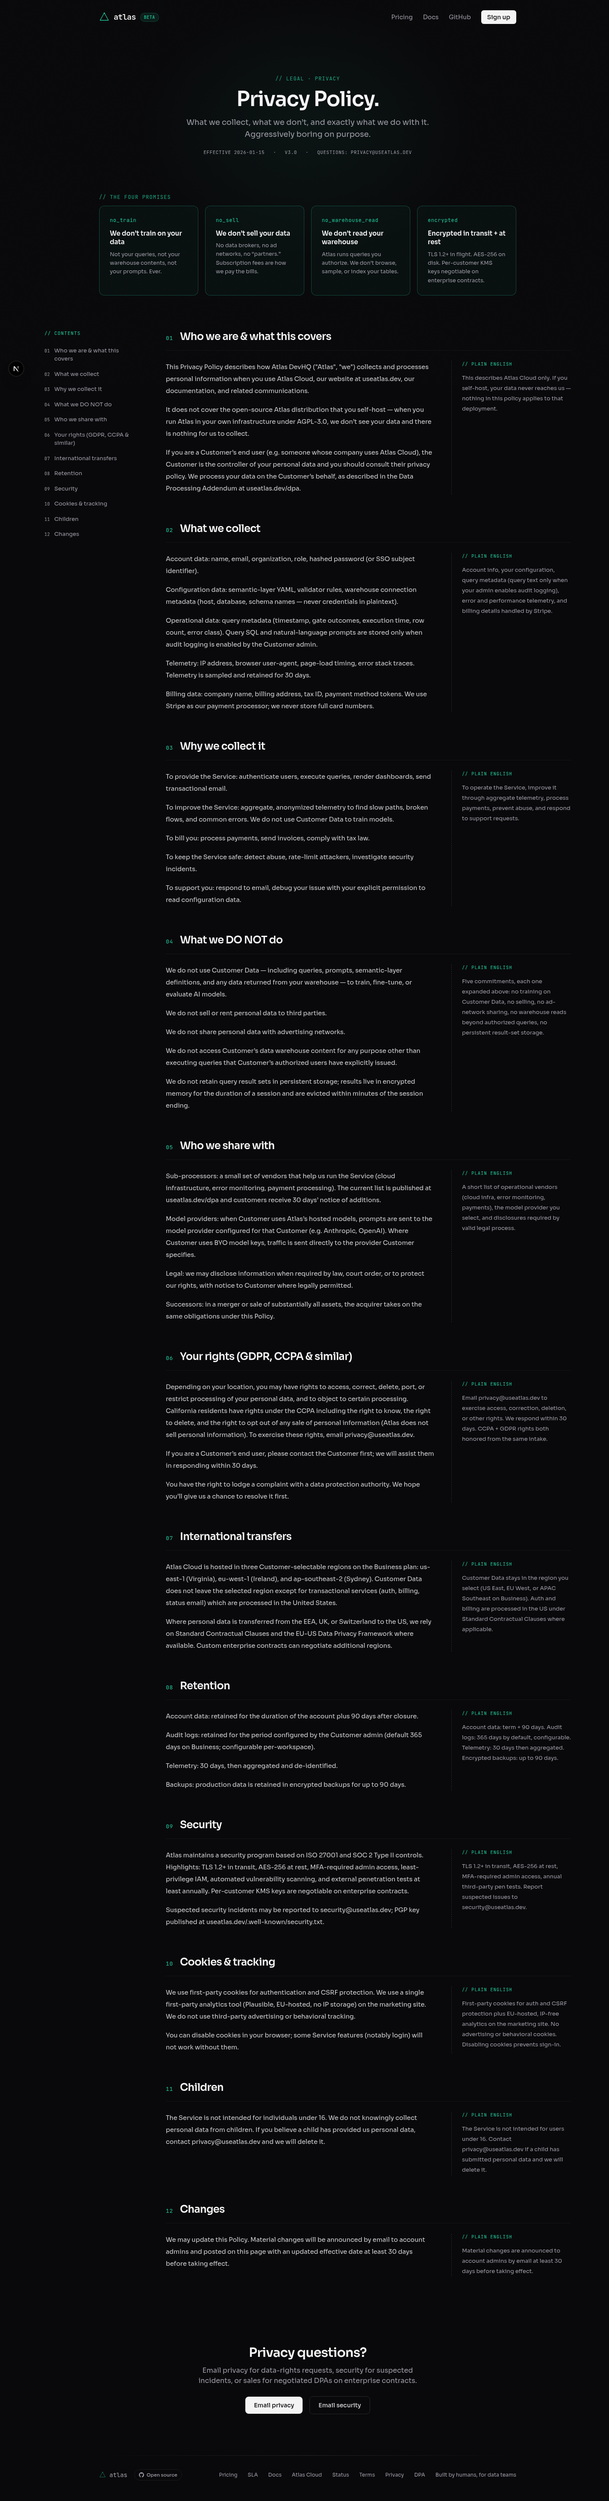
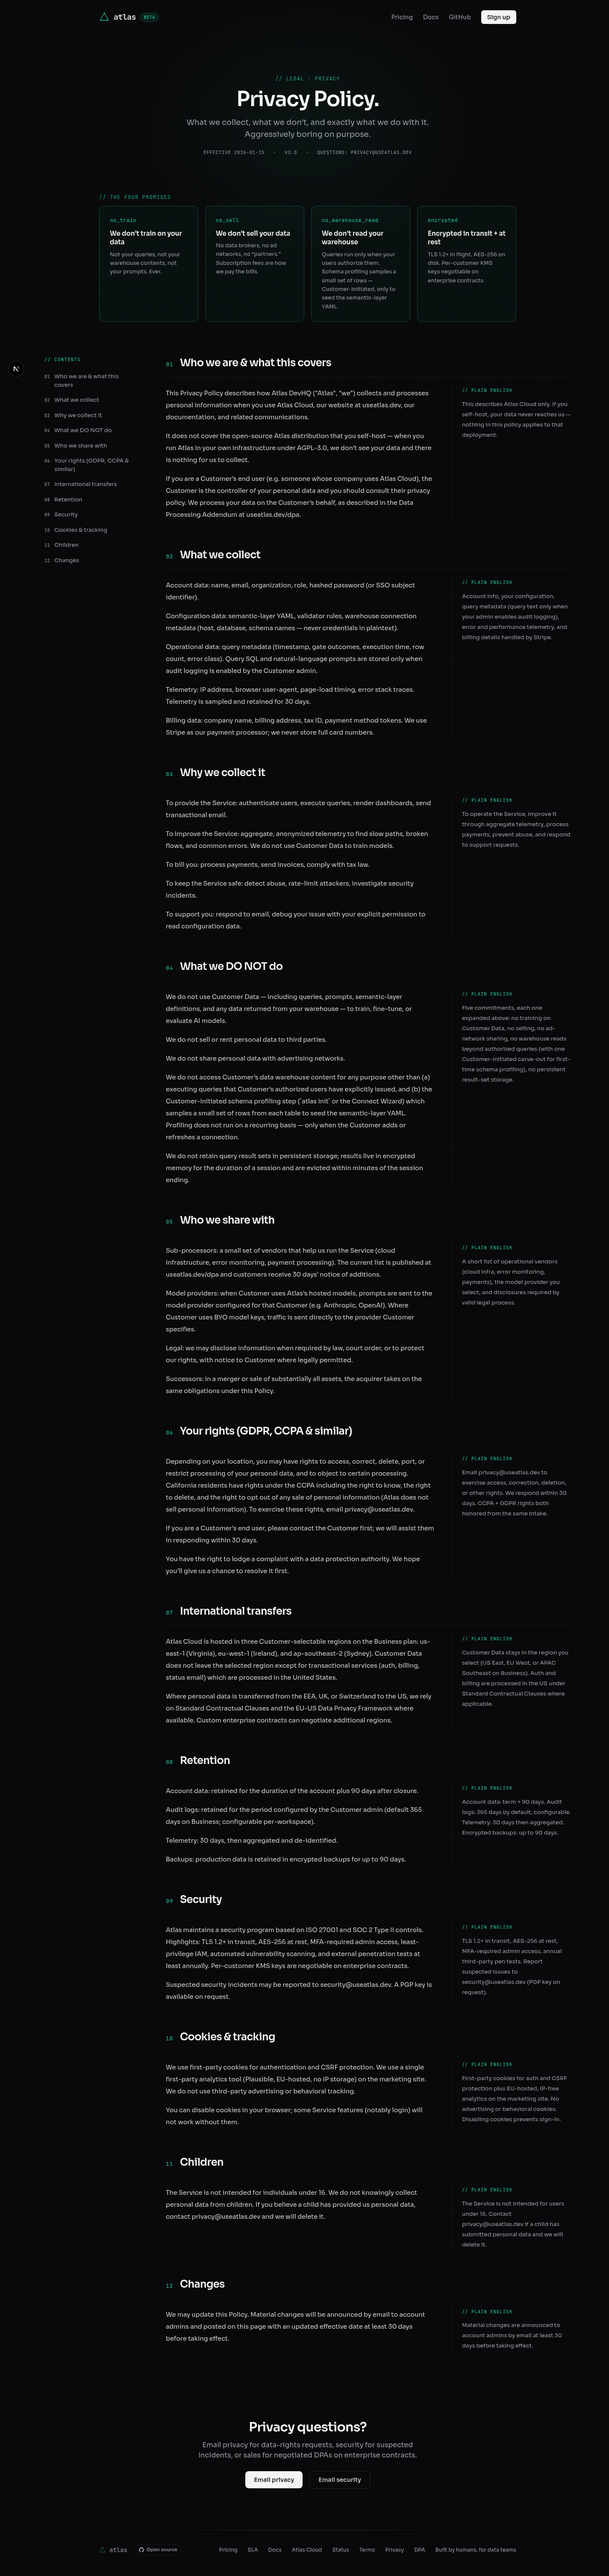
fix(www): #1913 honesty pass — profiler carve-out + drop nonexistent security.txt
Daisy flagged two material content issues:

1) The four-promises card claimed "We don't browse, sample, or index your
   tables" — but the Connect Wizard / `atlas init` flow does sample
   tables to seed the semantic-layer YAML. That's how a new connection
   becomes queryable. The promise as written contradicts the profiler.

   Re-worded the no_warehouse_read promise to acknowledge the
   Customer-initiated profiling step, and expanded the "What we DO NOT
   do" section's third commitment to (a) authorized queries + (b) the
   Customer-initiated profiling carve-out, with explicit "not on a
   recurring basis" language.

2) The Security section pointed at useatlas.dev/.well-known/security.txt
   for a PGP key — that route doesn't exist. Replaced with
   "A PGP key is available on request." Plain-english side updated to
   match.

Both pages of /privacy now match the actual product behavior. No prose
that could mislead procurement / security review.

diff --git a/apps/www/src/app/privacy/page.tsx b/apps/www/src/app/privacy/page.tsx
@@ -39,7 +39,7 @@ const PROMISES: Promise[] = [
   {
     mono: "no_warehouse_read",
     label: "We don’t read your warehouse",
-    sub: "Atlas runs queries you authorize. We don’t browse, sample, or index your tables.",
+    sub: "Queries run only when your users authorize them. Schema profiling samples a small set of rows — Customer-initiated, only to seed the semantic-layer YAML.",
   },
   {
     mono: "encrypted",
@@ -100,11 +100,11 @@ const SECTIONS: LegalSection[] = [
       "We do not use Customer Data — including queries, prompts, semantic-layer definitions, and any data returned from your warehouse — to train, fine-tune, or evaluate AI models.",
       "We do not sell or rent personal data to third parties.",
       "We do not share personal data with advertising networks.",
-      "We do not access Customer’s data warehouse content for any purpose other than executing queries that Customer’s authorized users have explicitly issued.",
+      "We do not access Customer’s data warehouse content for any purpose other than (a) executing queries that Customer’s authorized users have explicitly issued, and (b) the Customer-initiated schema profiling step (`atlas init` or the Connect Wizard) which samples a small set of rows from each table to seed the semantic-layer YAML. Profiling does not run on a recurring basis — only when the Customer adds or refreshes a connection.",
       "We do not retain query result sets in persistent storage; results live in encrypted memory for the duration of a session and are evicted within minutes of the session ending.",
     ],
     plain:
-      "Five commitments, each one expanded above: no training on Customer Data, no selling, no ad-network sharing, no warehouse reads beyond authorized queries, no persistent result-set storage.",
+      "Five commitments, each one expanded above: no training on Customer Data, no selling, no ad-network sharing, no warehouse reads beyond authorized queries (with one Customer-initiated carve-out for first-time schema profiling), no persistent result-set storage.",
   },
   {
     id: "share",
@@ -156,10 +156,10 @@ const SECTIONS: LegalSection[] = [
     title: "Security",
     legal: [
       "Atlas maintains a security program based on ISO 27001 and SOC 2 Type II controls. Highlights: TLS 1.2+ in transit, AES-256 at rest, MFA-required admin access, least-privilege IAM, automated vulnerability scanning, and external penetration tests at least annually. Per-customer KMS keys are negotiable on enterprise contracts.",
-      "Suspected security incidents may be reported to security@useatlas.dev; PGP key published at useatlas.dev/.well-known/security.txt.",
+      "Suspected security incidents may be reported to security@useatlas.dev. A PGP key is available on request.",
     ],
     plain:
-      "TLS 1.2+ in transit, AES-256 at rest, MFA-required admin access, annual third-party pen tests. Report suspected issues to security@useatlas.dev.",
+      "TLS 1.2+ in transit, AES-256 at rest, MFA-required admin access, annual third-party pen tests. Report suspected issues to security@useatlas.dev (PGP key on request).",
   },
   {
     id: "cookies",
